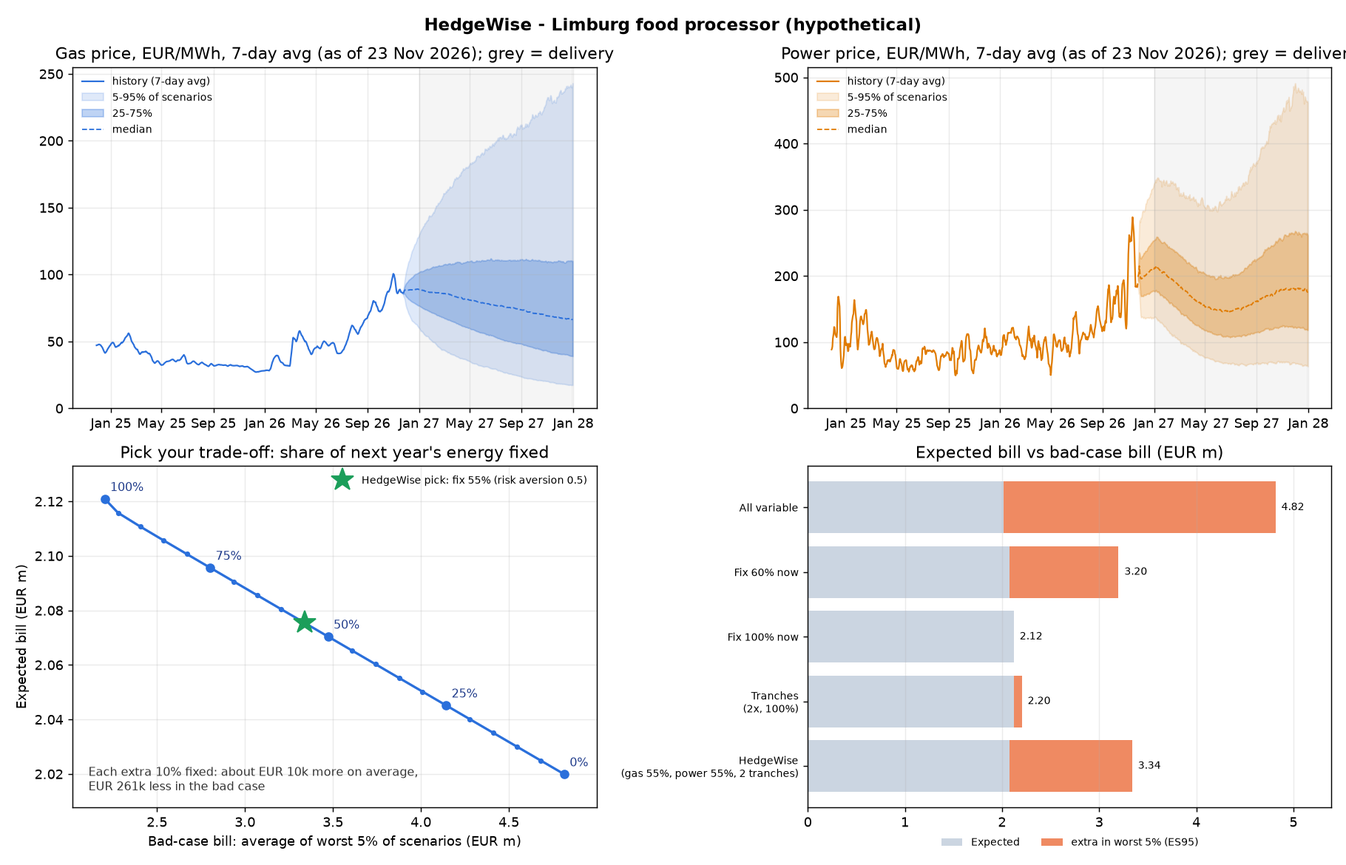
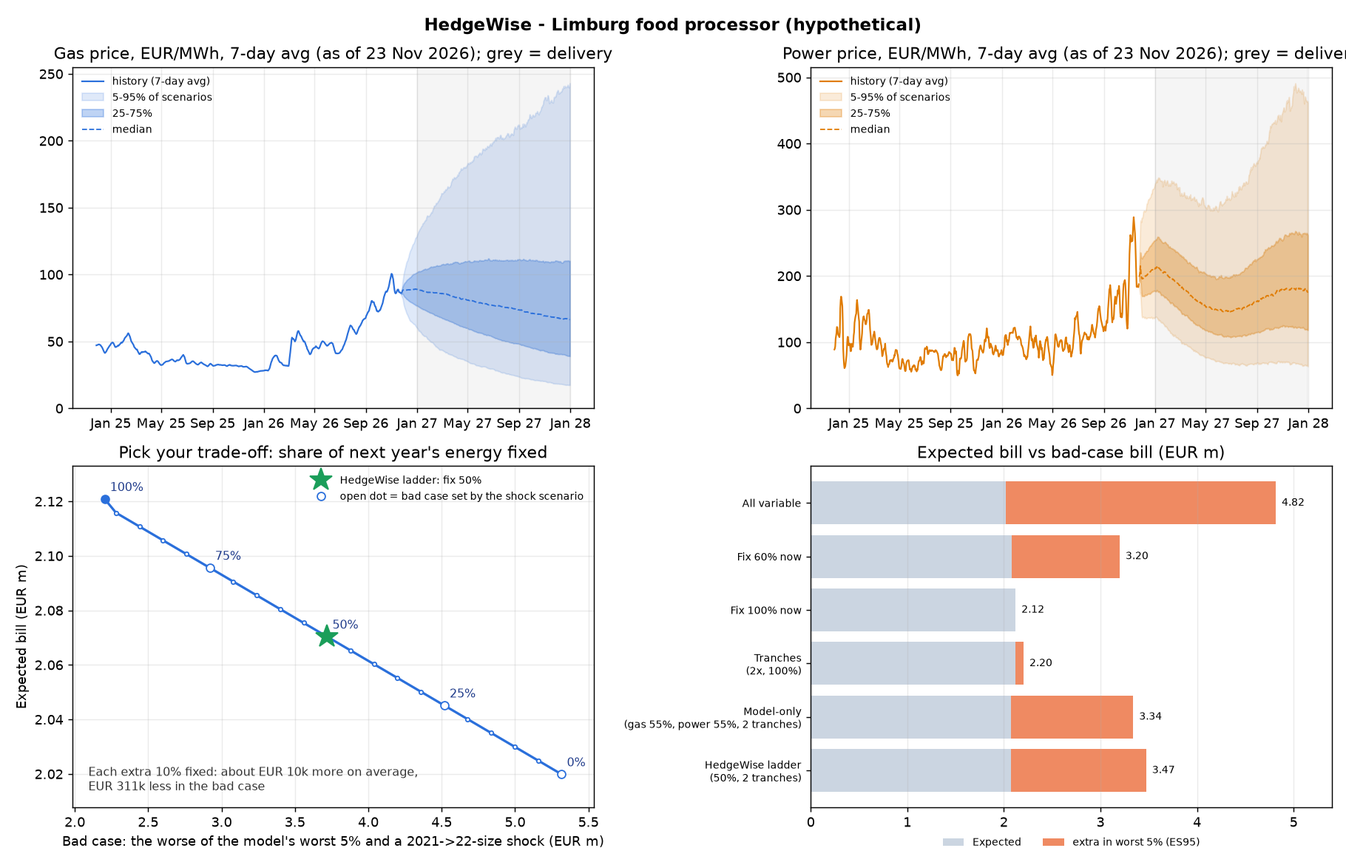
Freeze tasks 1+2 (docs and outputs): RESULTS (ladder = our rule, pre-registered 23 Nov 2026, 2021-2025 in-sample; model-says table with ladder targets and honest bad case; honest-bad-case section: recommendation unchanged because the objective is mean-variance; stress rows for the ladder plan), METH

diff --git a/hedgewise/app_text.py b/hedgewise/app_text.py
@@ -461,7 +461,10 @@ def strategy_table(a: object, lang: str) -> pd.DataFrame:
     t = (a.table / 1e3).round(0).astype(int)
     if lang == "nl":
         t = t.rename(columns=nl_cols)
-        t.index = [nl_rows.get(i, i.replace("power", "stroom").replace("now", "nu")) for i in t.index]
+        t.index = [
+            nl_rows.get(i, i.replace("power", "stroom").replace("now", "nu").replace("Model-only", "Alleen model"))
+            for i in t.index
+        ]
     return t
 
 

diff --git a/RESULTS.md b/RESULTS.md
@@ -1,5 +1,10 @@
 # HedgeWise: results on real data (v0.7, 23 Nov 2026)
 
+**Pitch freeze (23 Nov 2026):** the **HedgeWise ladder is our rule, pre-registered on 23 Nov 2026**
+(`PREREGISTRATION.md`, rule commit `5023af4`); its 2021–2025 numbers are **in-sample**. The **bad case** shown to
+clients is the higher of the model's ES95 and a repeat of the 2021→2022 shock. The plain optimiser is kept as
+"Model-only" (not recommended: procyclical). Every number allowed on a slide is in `PITCH_NUMBERS.md`.
+
 **v0.7** adds evidence and tools; the model maths and the 2021–2025 numbers are unchanged (golden test):
 - **Robustness:** synthetic 8-year futures and stress paths, and the backtest on German and Belgian power, 2020–2025
 - **Procurement audit:** a company's real past contracts vs the strategies ("what would HedgeWise have saved you?")
@@ -30,8 +35,8 @@ Real Dutch day-ahead power and TTF gas prices, 2019 to today. Company: the hypot
 
 > **Mid-sized companies either stay fully variable or fix 100% once a year. Over 2021–2025 both were the most expensive way to buy energy in the years that hurt. Fixing 60% in monthly tranches, or layering over two years, cut the worst year by 7–21% and the biggest year-on-year jump by 21–41% versus staying variable, for 3–5% more over five years. Against the "fix 100% in October" habit it was cheaper *and* safer: −16 to −17% total, worst year cut by 43–51%.**
 
-⚠ "For 3–5% more" is what 2021–2025 cost. In 200 synthetic futures from the model the layered plan cost 29% more
-than staying variable in the median future and paid off only in the bad tail (P95 worst year −20%); see Robustness.
+⚠ "For 3–5% more" is what 2021–2025 cost. In 1,000 synthetic futures from the model the layered plan cost 29% more
+than staying variable in the median future and paid off only in the bad tail (P95 worst year −12%); see Robustness.
 Say "insurance against the bad year", not "almost free".
 
 Use `output/pitch_cycle.png` as the main chart and `output/pitch_2022.png` as the "2022 story" chart. They tell the same story; 2022 alone cherry-picks the year where hedging won.
@@ -71,7 +76,7 @@ The policy (`policy_plan` in `hedgewise_model.py`) takes the optimizer's target 
 * **What would address it** (not done, because the cap mustn't be tuned on these results): carry the previous season's target over as the starting point of the cap, or add mean reversion to the gas model. Decide either one on reasoning first, then test it once.
 * **Pitch implication:** sell the *discipline* (60% in tranches or a 2-year ladder) as the recommendation, and the model as the tool that *measures* the risk (bad-case bill, stress test, frontier). Don't claim the optimizer beats simple rules.
 
-### HedgeWise ladder: ⚠ designed AFTER seeing the 2021–2025 results, so this backtest is NOT independent evidence
+### HedgeWise ladder: our rule, pre-registered on 23 Nov 2026. ⚠ Designed AFTER seeing 2021–2025, so this backtest is in-sample, NOT independent evidence
 
 **Rule:** buy 40% in 6 monthly tranches in H2 of Y-2. In H2 of Y-1, top up in equal monthly tranches to the model's target (γ = 0.5). The target may not exceed the **previous season's** target by more than 10 points. "Previous season's target" is the ladder's target on the last decision date for delivery year Y-1. For 2021 there is no previous season in the data, so the 40% base layer is used as the starting point (cap 50%). The rule combines what the earlier sections showed: layering across two years helped, and between-season jumps hurt. **That's exactly why its good numbers below prove nothing yet**; it needs testing on data it wasn't designed on (other years, other markets, or the coming seasons).
 
@@ -92,15 +97,34 @@ Per year: 729 / 1,584 / 1,612 / 1,894 / 893. The ladder fixed 48%, 50%, 60%, 65%
 * **"Fix 60% at once in July" has the best numbers in the table (total €5.56m), but that's luck.** Fixing 60% once in a different month of the same half-year gives a total of €5.56m–€7.60m and a worst year of €1.85m–€3.60m. Don't pitch it.
 * **The HedgeWise optimizer doesn't beat the simple rules in this backtest.** It hedges *more* when volatility is high, and volatility is high when prices are already high (H2 2022), so it locked in crisis prices for 2023. Model-driven hedging on its own is procyclical. Honest framing: the model's job is to *measure* the risk and size the hedge; the *discipline* (tranches and layering) is what protects you. Fixing the procyclicality (a vol-target that doesn't chase, or mean reversion in gas) is the next modelling step.
 
-## What the model says (anchored, γ = 0.5, 10,000 scenarios)
+## What the model says (anchored, 10,000 scenarios; recommendation = the HedgeWise ladder)
 
-| As of | Delivery | Expected bill, all variable | Bad case (ES95), all variable | HedgeWise: share fixed | Bad case with HedgeWise | Extra expected cost |
+The plan is the pre-registered ladder: the optimiser's share at γ = 0.5 ("model target"), kept between the 40% base
+layer and last season's target + 10 points (a new client has no last season: at most 50%). Bad case = the higher of
+the model's ES95 and the 2021→2022-shock bill (source in brackets).
+
+| As of | Delivery | Expected bill, all variable | Bad case, all variable | Model target → **ladder** | Bad case with the ladder | Extra expected cost |
 |---|---|---|---|---|---|---|
-| 30 Jun 2021 | 2022 | €0.71m | €1.91m | 70% | €1.27m | €25k |
-| 30 Jun 2022 | 2023 | €2.31m | €7.96m | 90% | €4.28m | €104k |
-| 23 Nov 2026 (today) | 2027 | €2.02m | €4.82m | 55% | €3.34m | €56k |
+| 30 Jun 2021 | 2022 | €0.71m | €1.91m (model) | 70% → **50%** | €1.44m | €18k |
+| 30 Jun 2022 | 2023 | €2.31m | €7.96m (model) | 90% → **50%** | €5.74m | €58k |
+| 23 Nov 2026 (today) | 2027 | €2.02m | **€5.32m (stress)** | 55% → **50%** | **€3.72m (stress)** | €50k |
 
-Today's frontier: each extra 10% fixed costs about €10k on average and removes about €260k from the bad case. The exact recommended share moves by ±5 percentage points with the number of scenarios (5,000 in the dashboard, which advises 60% today, vs 10,000 here).
+Today the ladder also starts 2028: buy 20% of 2028's volume this month and 40% by December (its base layer).
+Today's frontier: each extra 10% fixed costs about €10k on average and removes about €311k from the (honest) bad
+case. The model target moves by ±5 points with the number of scenarios (the dashboard uses 5,000); the ladder's cap
+(50%) binds today either way.
+
+### The honest bad case (new at the pitch freeze)
+
+Our model's 12-month ranges were too narrow before the 2021–22 crisis (they held 72% of outcomes instead of 90%; see
+Model validation), so the bad case shown to clients is **never lower than a repeat of the 2021→2022 price shock**:
+for every strategy and every point on the trade-off chart it is the higher of (a) the model's ES95 (average of the
+worst 5% of scenarios) and (b) the bill in the "shock as big as 2021→2022, from today" stress scenario, labelled
+"model" or "stress". Today the shock sets the bad case for every strategy except fixing 100% (now: both equal, €2.12m; in tranches: the
+model's ES95 is higher); on 30 Jun
+2021 and 30 Jun 2022 the model's ES95 was the higher one. **The recommendation is not affected:** the optimiser's
+objective is mean-variance (E + γ/2·Var/E) and doesn't use the bad case, and the ladder's cap doesn't either, so the
+advised share is the same as before; only the bad-case numbers shown next to it change.
 
 ## Stress test: "what if 2022 happens again?" (two scenarios, revised)
 
@@ -113,15 +137,15 @@ The fixed share is priced at today's fixed price. "Implied avg" is the volume-we
 
 | Decision date (plan) | Scenario | Implied avg gas / power (€/MWh) | All variable | HedgeWise plan | Fix 60% now | Fix 100% now |
 |---|---|---|---|---|---|---|
-| 30 Jun 2021 (fix 70%) | 2022 repeats | 124 / 243 | 2.67 | 1.32 | 1.52 | 0.75 |
-| | shock from today | 80 / 183 | 1.86 | 1.08 | 1.19 | 0.75 |
-| 30 Jun 2022 (fix 90%) | 2022 repeats | 124 / 243 | 2.67 | 2.45 | 2.53 | 2.43 |
-| | shock from today | 295 / 527 | 6.10 | 2.80 | 3.90 | 2.43 |
-| **23 Nov 2026, today (fix 55%)** | 2022 repeats | 124 / 243 | **2.67** | **2.37** | 2.34 | 2.12 |
-| | shock from today | 253 / 471 | **5.32** | **3.56** | 3.40 | 2.12 |
+| 30 Jun 2021 (ladder 50%) | 2022 repeats | 124 / 243 | 2.67 | 1.71 | 1.52 | 0.75 |
+| | shock from today | 80 / 183 | 1.86 | 1.30 | 1.19 | 0.75 |
+| 30 Jun 2022 (ladder 50%) | 2022 repeats | 124 / 243 | 2.67 | 2.55 | 2.53 | 2.43 |
+| | shock from today | 295 / 527 | 6.10 | 4.26 | 3.90 | 2.43 |
+| **23 Nov 2026, today (ladder 50%)** | 2022 repeats | 124 / 243 | **2.67** | **2.40** | 2.34 | 2.12 |
+| | shock from today | 253 / 471 | **5.32** | **3.72** | 3.40 | 2.12 |
 
 * Sanity check: as of 30 Jun 2021, "2022 repeats" is what actually happened, and its all-variable bill (€2.67m) equals the realised 2022 bill in the backtest.
-* Today's fixed prices (gas €96, power €199/MWh) are already close to the 2022 averages, so "2022 repeats" adds only about €0.65m to a variable bill. The shock scenario is the one that hurts: €5.32m variable vs €3.56m with the plan.
+* Today's fixed prices (gas €96, power €199/MWh) are already close to the 2022 averages, so "2022 repeats" adds only about €0.65m to a variable bill. The shock scenario is the one that hurts: €5.32m variable vs €3.72m with the ladder plan.
 * By construction, fixing more always looks better in a price-rise scenario. The frontier and the backtest show the other side (2023, when prices fell).
 * It appears in the dashboard, the PDF and the CLI (with the implied prices), and in `output/stress_<date>.png`.
 
@@ -275,38 +299,41 @@ instead of 4,000** and one risk aversion (γ = 0.5). Three families, defined bef
 * **stress:** three named paths: "2022 repeats" (the 2021→2022 shock from today, in 2028–29), "slow 3-year rise"
   (×3 from mid-2027) and "spike then crash" (×4 in 3 months in 2028, then down to 0.5× today's level).
 
-**Sample size: 200 histories per family so far** (plus the 3 stress paths). The run is chunked and resumable, and is
-still going towards 1,000 per family; the tables below will be updated when it finishes. Measures per strategy:
+**Sample size: 1,000 histories per family** (the model family; the bootstrap family has 999: history 542 produced
+non-finite prices and is reported as failed, not dropped silently) plus the 3 stress paths. Measures per strategy:
 median 8-year total, 95th percentile (P95) of the worst single year and of the biggest year-on-year jump, and "wins"
 = the share of histories where the strategy has a lower worst year than all-variable **and** costs less than 8% more
-in total. Files: `output/robustness_table.csv`, `robustness_histories.csv`, `robustness.png`.
+in total. Files: `output/robustness_table.csv`, `robustness_histories.csv`, `robustness.png`, `robustness_summary.txt`.
 
-**Model family (n = 200), €m over 8 years:**
+**Model family (n = 1,000), €m over 8 years:**
 
 | Strategy | Median total | P95 worst year (vs variable) | P95 biggest jump (vs variable) | Wins |
 |---|---|---|---|---|
-| All variable | 5.46 | 15.7 | 8.2 | – |
-| Fix 100% in Oct | 7.36 | 18.5 (+17%) | 8.9 (+8%) | 10% |
-| Fix 60% at once (Jul) | 6.80 | 15.2 (−4%) | 6.6 (−20%) | 18% |
-| Tranches 6× (100%) | 7.13 | 18.9 (+20%) | 9.4 (+14%) | 6% |
-| Tranches 6× (60%) | 6.45 | 15.2 (−4%) | 5.7 (−31%) | 18% |
-| Layered 2 years (40+40%) | 7.27 | **12.6 (−20%)** | 4.8 (−42%) | 18% |
-| HedgeWise policy γ=0.5 | 6.52 | 16.7 (**+6%**) | 6.9 (−17%) | 22% |
-| HedgeWise ladder (in-sample rule) | 6.82 | **12.6 (−20%)** | **4.5 (−46%)** | 23% |
+| All variable | 5.92 | 10.9 | 4.8 | – |
+| Fix 100% in Oct | 7.39 | 11.6 (+6%) | 6.5 (+36%) | 10% |
+| Fix 60% at once (Jul) | 7.10 | 10.7 (−2%) | 4.7 (−2%) | 18% |
+| Tranches 6× (100%) | 7.45 | 11.0 (+0%) | 6.1 (+28%) | 7% |
+| Tranches 6× (60%) | 6.85 | 10.7 (−2%) | 4.4 (−9%) | 17% |
+| Layered 2 years (40+40%) | 7.64 | **9.6 (−12%)** | 3.3 (−30%) | 18% |
+| Model-only (HedgeWise policy γ=0.5) | 6.77 | 10.8 (−1%) | 4.1 (−14%) | 20% |
+| **HedgeWise ladder** (our rule; pre-registered 23 Nov 2026) | 7.18 | **9.6 (−13%)** | **3.0 (−37%)** | **22%** |
 
 (The uncapped optimiser column "HedgeWise (risk aversion 0.5)" is left out: its summary numbers equal the policy's
-to within €10k (identical trades in 46% of histories; where the 20-point cap binds, totals differ by up to €0.65m).)
+to within €13k; identical trades in 46% of histories, totals differ by up to €1.07m where the
+20-point cap binds.) With 200 histories the tail cuts looked larger (−20% for the ladder and the layered rule) and the
+model-only policy looked worse than variable (+6%); with 1,000 those are −13%, −12% and −1%. The 1,000 numbers are
+the ones to use.
 
-**Who is best how often** (share of the 200 model histories in which a strategy has the lowest value):
+**Who is best how often** (share of the 1,000 model histories in which a strategy has the lowest value):
 
 | | Lowest total | Lowest worst year | Lowest biggest jump |
 |---|---|---|---|
-| All variable | **84%** | **40%** | 5% |
-| HedgeWise ladder | 1% | 32% | 40% |
-| Layered 2 years | 4% | 10% | 40% |
-| HedgeWise policy | 0% | 5% | 2% |
+| All variable | **84%** | **44%** | 5% |
+| HedgeWise ladder | 2% | 31% | **39%** |
+| Layered 2 years | 4% | 9% | 37% |
+| Model-only (HedgeWise policy) | 0% | 3% | 5% |
 | Tranches 6× (60%) | 0% | 2% | 4% |
-| Fix 100% in Oct | 7% | 4% | 2% |
+| Fix 100% in Oct | 6% | 2% | 1% |
 
 **Named stress paths, €m (8-year total / worst year):**
 
@@ -316,35 +343,35 @@ to within €10k (identical trades in 46% of histories; where the 20-point cap b
 | Fix 100% in Oct | 18.9 / 8.5 | 53.5 / 9.8 | 20.6 / 9.3 |
 | Tranches 6× (60%) | 15.7 / 5.1 | 53.3 / 8.3 | 18.3 / 5.8 |
 | Layered 2 years | 16.8 / 4.4 | **50.9** / 8.1 | 19.2 / 5.0 |
-| HedgeWise policy γ=0.5 | 16.5 / 5.7 | 53.1 / **7.9** | 17.5 / 5.3 |
+| Model-only (HedgeWise policy) | 16.5 / 5.7 | 53.1 / **7.9** | 17.5 / 5.3 |
 | HedgeWise ladder | 16.2 / **3.6** | 51.2 / 8.4 | 18.4 / **4.5** |
 
 **What this shows, including where our preferred strategies lose:**
 1. **Hedging is insurance, and in the model's world it usually costs more than 5%.** In the median history every hedge
-   costs more than staying variable: +13% (HedgeWise policy) to +29% (layered) over 8 years. All-variable has the
+   costs more than staying variable: +14% (model-only) to +29% (layered); the ladder +22%. All-variable has the
    lowest 8-year total in 84% of model histories. The reason: the model is a martingale with high volatility, so in
    most paths prices drift down after a hedge is locked in, and the few paths where they explode carry the average.
    The real-data claim "3–5% more over five years" belongs to 2021–2025; it is not a general cost of hedging.
-2. **The benefit is in the tail, and only for the layered rules.** The 2-year ladder and the HedgeWise ladder cut the
-   P95 worst year by 20% and the P95 jump by 42–46%. 60% tranches barely move the P95 worst year (−4%) but cut the
-   jump by 31%. Fixing 100% (in October or in tranches) makes both the bad year and the jump *worse* than staying
-   variable: it concentrates the price risk into one decision season.
-3. **The HedgeWise policy (the model-driven optimiser) fails on worst year here too:** P95 worst year +6% versus
-   all-variable, the same procyclicality seen in 2021–2025. It has the cheapest median among the hedges (+13%) and
-   wins in 22% of histories, but not on the measure we sell.
-4. **"Wins" is low for everything (6–23%).** Lower worst year *and* less than 8% extra is rarely both true in the
-   model's world. The HedgeWise ladder (23%) and the policy (22%) are highest, the layered rule 18%.
+2. **The benefit is in the tail, and mainly for the layered rules.** The HedgeWise ladder and the 2-year ladder cut
+   the P95 worst year by 13% and 12% and the P95 jump by 37% and 30%. 60% tranches barely move the P95 worst year
+   (−2%). Fixing 100% (in October or in tranches) makes the jump much *worse* (+28 to +36%) and the bad year no
+   better: it concentrates the price risk into one decision season.
+3. **The model-only policy barely helps on the worst year** (P95 −1% vs variable), the same procyclicality as in
+   2021–2025. It has the cheapest median among the hedges (+14%), but not the protection we sell.
+4. **"Wins" is low for everything (7–22%).** Lower worst year *and* less than 8% extra is rarely both true in the
+   model's world. The HedgeWise ladder is highest (22%), the model-only policy 20%, the layered rule 18%.
 5. **Stress paths:** a disciplined hedge cuts the worst year in "2022 repeats" (ladder 3.6, layered 4.4 vs 5.4) and in
    "spike then crash" (4.5–5.0 vs 7.0), but all-variable is cheapest over 8 years in both: after the shock prices
    come down and the hedges keep paying today's high price. Only in the slow 3-year rise do the layered rules save
    money (−5 to −6%); there, no strategy changes the worst year much (7.9–9.8).
-6. **The HedgeWise ladder is still in-sample** (designed after seeing 2021–2025). It does well here on data it wasn't
-   designed on, which is some evidence, but the synthetic futures come from a model fitted on the same history.
+6. **The HedgeWise ladder is our pre-registered rule (PREREGISTRATION.md, 23 Nov 2026); 2021–2025 is in-sample.**
+   It does best here on data it wasn't designed on, which is some evidence, but the synthetic futures come from a
+   model fitted on the same history. The real test is out of sample: every delivery year from 2027 on.
 7. **The bootstrap family fails a sanity check and is not used for any conclusion.** Chaining random 30-day blocks of
    2019–2026 daily changes over 9 years (a) copies the 2019–2026 upward drift (gas €22 → €91; median simulated 2035
    gas price €589/MWh) and (b) ignores that power mean-reverts after spikes and negative prices (one 30-day block's
    power change has a standard deviation of 0.59 in logs), so the median 2035 power price is about €5,000/MWh and the
-   P95 runs to absurd values. Its "wins" (46–78%) mostly reflect the built-in upward drift. The design was fixed
+   P95 runs to absurd values. Its "wins" (44%–74%) mostly reflect the built-in upward drift. The design was fixed
    before the run and is reported as it is; a better bootstrap (gas blocks + power from the fitted power-on-gas
    regression, drift removed) is a to-do, to be defined before it is run.
 8. **Caveats:** the model family inherits the model's limits (no mean reversion; validation shows 12-month bands too

diff --git a/TEAM_GUIDE.md b/TEAM_GUIDE.md
@@ -82,16 +82,18 @@ Click **Vergelijk met de strategieën** (about a minute the first time). You get
 | Number | Meaning |
 |---|---|
 | **Verwachte rekening / Expected bill** | Average gas + power commodity bill for next calendar year over thousands of simulated price paths, if they buy everything at the variable (day-ahead) price. |
-| **Slecht scenario / Bad case** | The average of the worst 5% of those paths ("expected shortfall"). Not the worst case; a plausible bad year. |
-| **Slecht scenario met HedgeWise** | The same bad case if they follow our plan (fix the advised share in monthly steps). The green number is how much the plan takes off. |
+| **Slecht scenario / Bad case** | The higher of two numbers: the average of the worst 5% of the simulated paths, and the bill if a price shock as big as 2021→2022 started today. The small label under it says which one ("from the model" / "from the 2021->22 shock"). We do this because our model's ranges were too narrow before the 2021–22 crisis. Not the worst case; a plausible bad year. |
+| **Slecht scenario met HedgeWise** | The same bad case if they follow our plan, the **HedgeWise ladder** (fix the advised share in monthly steps). The green number is how much the plan takes off. |
 | **Advies: deel vastzetten / Share to fix** | Share of next year's volume to fix now, spread over the remaining monthly buying dates before January. |
 | **The trade-off chart** | Every share from 0% to 100%: right = bigger bad case, up = dearer on average. In the model, fixing more costs a little more on average (the ~5% premium inside fixed prices) and removes some of the bad case. The star is our advice. |
 | **Wat als 2022 zich herhaalt?** | Two historical stress tests, not forecasts: the 2022 prices exactly, and a shock as big as 2021→2022 starting from today's prices. |
 | **Past contracts table** | What they actually paid per year (commodity only) next to what 5 simple strategies would have cost with the same volumes and the real prices. |
 
-All numbers are **commodity cost only**: no network costs, energy tax, VAT or supplier margin. Today the dashboard
-advises 60% (5,000 scenarios); the PDF and the command line use 10,000 scenarios and say 55%. The advice moves by
-about 5 points with the number of scenarios; that's noise, not a different view.
+All numbers are **commodity cost only**: no network costs, energy tax, VAT or supplier margin. **Our advice is the
+HedgeWise ladder**, our rule since 23 Nov 2026 (`PREREGISTRATION.md`): the model proposes a share (today 55–60%) and
+the ladder keeps it between 40% and last season's share + 10 points; for a new client that means at most 50%, which
+is today's advice. It also says to start next year's 40% base layer in the second half of the year. The "Model-only"
+option in the full dashboard is the model's own share: not recommended (it buys most when prices are already high).
 
 ## 5. What we may and may not claim
 
@@ -99,9 +101,11 @@ about 5 points with the number of scenarios; that's noise, not a different view.
 * "Over 2021–2025, fixing 60% in monthly steps or layering over two years cut the worst year by 7–21% versus staying
   variable, for 3–5% more in total. Fixing 100% once a year in October was the most expensive habit: 25% more than
   staying variable, and the worst year was 60% higher." (RESULTS.md, real prices.)
-* "In thousands of simulated futures, a two-year layered plan cuts the bad tail (the worst year in 1 of 20 futures)
-  by about 20%, but in a typical future it costs more than staying variable. It's insurance, not a way to save
-  money."
+* "In 1,000 simulated futures, our ladder cuts the bad tail (the worst year in 1 of 20 futures) by about 13% and the
+  biggest year-on-year jump by about a third, but in a typical future it costs more than staying variable. It's
+  insurance, not a way to save money."
+* "The ladder is our rule, pre-registered on 23 November 2026. 2021–2025 is in-sample: we will score every year from
+  2027 on out of sample, with measures we fixed in advance."
 * "The same pattern holds with German and Belgian power prices." (Coupled markets, same gas: not independent proof.)
 * "We tested the model on 76 monthly forecasts made with only the data available at the time. Outside the 2021–22
   build-up its 90% ranges held about 90% of outcomes; before the crisis no statistical model saw it coming. That's
@@ -111,7 +115,10 @@ about 5 points with the number of scenarios; that's noise, not a different view.
 * "HedgeWise saves you money" or "beats the market". It doesn't, on average; it reduces the bad years.
 * "Our optimiser beats simple rules." In the backtest and in simulations it doesn't (it hedges most when prices are
   already high).
-* Anything with the "HedgeWise ladder" as proof: it was designed after seeing 2021–2025.
+* The ladder's 2021–2025 numbers as proof: it was designed after seeing 2021–2025 (in-sample). Say "our rule from now
+  on", not "the rule that won".
+* "The bad case is the worst that can happen." It's a plausible bad year (the worse of the model and a 2021→22 repeat),
+  not a ceiling.
 * "Proven", "always", "guaranteed". Five years is a tiny sample.
 * Exact euros for a specific company without their own data and their real contract prices.
 * Green-investment paybacks as firm numbers: the capex values are placeholders, and today's high prices flatter
@@ -139,11 +146,14 @@ about 5 points with the number of scenarios; that's noise, not a different view.
 4. **"Then why not stay variable?"** On average it is cheapest, in the backtest and in simulations. But 2022 doubled
    the bill in one year; most companies can't absorb that. Hedging is insurance.
 5. **"How much does your advice cost the client?"** About 5% on the hedged part (the premium in fixed prices). Today:
-   roughly €10k a year more on average per extra 10% fixed, for ~€260k less in the bad case (default company).
-6. **"Does your optimiser beat simple rules?"** No, and we say so. It reacts to volatility after the fact. We sell the
-   discipline (layered monthly buying) and the measurement, not a black box.
-7. **"Five years of backtest is nothing."** Agreed. We added three countries, 6 years, and hundreds of simulated 8-year
-   futures. The direction holds: layered buying cuts the bad tail and costs money in normal times.
+   roughly €10k a year more on average per extra 10% fixed, for ~€310k less in the bad case (default company).
+6. **"Does your optimiser beat simple rules?"** No, and we say so: it reacts to volatility after the fact. That's why our
+   rule is the HedgeWise ladder (pre-registered on 23 Nov 2026): a fixed 40% base layer two years ahead plus a model
+   top-up whose rise is capped at 10 points a season. Its 2021–2025 numbers are in-sample; we score it out of sample
+   from 2027.
+7. **"Five years of backtest is nothing."** Agreed. We added three countries, 6 years, and 1,000 simulated 8-year
+   futures. The direction holds: layered buying cuts the bad tail (−12 to −13% in the worst year of 1 in 20 futures)
+   and costs money in normal times.
 8. **"Your fixed price isn't a real forward price."** Correct: it's recent spot + 5%. The code reads real EEX/ICE
    forwards as soon as we get them (university terminal); then the numbers will move.
 9. **"Isn't this what energy brokers do?"** Brokers sell contracts and get paid per contract. We're independent,

diff --git a/METHODOLOGY.md b/METHODOLOGY.md
@@ -29,9 +29,14 @@ the outcomes are.
 For each share fixed h (0–100%, same for gas and power, bought in monthly tranches until delivery):
 `minimise E[bill] + (γ/2)·Var[bill] / E[all-variable bill]`, γ = risk aversion (default 0.5). Variance is quadratic in
 h, so the answer is interior (≈ 1 − premium / (γ·CV²)). A budget mode picks the smallest h that keeps the 95% VaR within
-budget. The **bad case** shown everywhere is the expected shortfall: the average of the worst 5% of scenarios. The
-trade-off chart shows expected bill vs bad case for every h. The **HedgeWise policy** caps the rise of the target at 20
-points per month (5 steps × 20 = 100%, set from the calendar, not the backtest).
+budget. **The recommendation is the HedgeWise ladder** (pre-registered 23 Nov 2026, `PREREGISTRATION.md`): the
+optimiser's share at γ = 0.5 is the *model target*, kept between the 40% base layer (bought in H2 of Y-2) and last
+season's target + 10 points, and bought in monthly tranches in H2 of Y-1. Its 2021–2025 results are in-sample; from
+2027 every new year and market is scored out of sample. The plain optimiser stays available as "model-only" (not
+recommended: procyclical). The **bad case** shown to clients is the higher of the model's expected shortfall (average
+of the worst 5% of scenarios) and the bill in a repeat of the 2021→2022 shock (labelled model / stress), because the
+model's 12-month ranges held only 72% of outcomes before the 2021–22 crisis. The objective is mean-variance, so this
+doesn't change the advised share. The trade-off chart shows expected bill vs this bad case for every h.
 
 ## 5. Validation (out of sample, `validation.py`)
 At 76 month ends from June 2020 the model is fitted on data up to that date only (a test proves no look-ahead) and
@@ -49,8 +54,9 @@ afterwards (90–92%). Anchoring to the 30-day proxy hurts at 1 month (the proxy
   and lost to the simple rules.
 * **Other markets, 2020–2025:** the same ranking with NL, DE-LU and BE power (coupled markets, same gas: one history).
 * **Synthetic futures** (`robustness.py`): 8 delivery years on futures simulated from the model, plus 3 named stress
-  paths. Layered plans cut the 95th-percentile worst year by ~20% but cost 20–30% more than staying variable in the
-  median future; fixing 100% made the bad tail worse. The pre-registered block bootstrap failed a price sanity check
+  paths, 1,000 futures. The HedgeWise ladder and the 2-year layered plan cut the 95th-percentile worst year by 12–13%
+  and the biggest jump by 30–37%, but cost 22–29% more than staying variable in the median future; the model-only
+  optimiser barely cut the worst year (−1%); fixing 100% made the jumps worse. The pre-registered block bootstrap failed a price sanity check
   (it copies the 2019–26 upward drift and ignores mean reversion in power) and is not used for conclusions.
 * **Procurement audit** (`audit.py`): a company's real past contracts vs the same strategies on real prices; checked
   against hand calculations in the tests.

diff --git a/README.md b/README.md
@@ -153,7 +153,8 @@ python backtest.py --company data/pilot_x.csv
 10. **HedgeWise policy (v0.4, `policy_plan`):** the optimizer's share becomes a *target*. Its rise is capped at 20 percentage points between monthly decision dates, and the rest is bought in equal monthly tranches (never front-loaded, never sold back). Why 20: six monthly dates give five steps, and 5 × 20 = 100%. It isn't tuned on the backtest.
 11. **Stress test (`stress_test`):** two historical scenarios instead of one: (a) the 2022 monthly prices repeat exactly; (b) a shock as big as 2021→2022 from today (today's fixed price × 2022 avg / 2021 avg, with the 2022 monthly pattern; gas ×2.81, power ×2.35). The implied average prices are printed everywhere.
 12. **Real forwards (v0.4, `forwards.py`):** if `data/forwards.csv` exists (columns date, product such as `TTF Cal-27` / `NL Base Cal-27`, and price), the latest quote on or before the decision date replaces the proxy as the fixed price and as the anchor (expected spot = forward / 1.05). Every output says which source was used. `data/forwards.csv` is git-ignored because licensed data must not be pushed.
-13. **HedgeWise ladder (backtest only):** 40% in H2 of Y-2, then a top-up to the model's target in H2 of Y-1, capped at the previous season's target + 10 points. ⚠ Designed after seeing the 2021–2025 results, so its backtest is not independent evidence.
+13. **HedgeWise ladder = the recommendation (pre-registered 23 Nov 2026, `PREREGISTRATION.md`):** 40% in H2 of Y-2, then a top-up to the model's target (γ = 0.5) in H2 of Y-1, capped at the previous season's target + 10 points (`strategies.apply_ladder` / `recommend`; app, PDF, CLI and monitor). `--rule model-only` gives the plain optimiser (not recommended: procyclical). ⚠ Designed after seeing the 2021–2025 results, so that period is in-sample.
+14. **Honest bad case:** everywhere a client sees a bad case, it is the higher of the model's ES95 and the bill in a repeat of the 2021→2022 shock (labelled model / stress), because the model's 12-month ranges held only 72% of outcomes before the 2021–22 crisis. The recommendation doesn't use it (mean-variance objective).
 
 **Consumption input (v0.4, `company_input.py`):** units m³ / kWh / MWh / GJ for gas (1 GJ = 0.2778 MWh) and kWh / MWh for power. It handles Dutch numbers (`1.234,5`) and month names (`januari 2025`, `mrt-25`), and title rows above the table. With several years it averages per calendar month. If 1–3 months are missing it fills them from the sector profile with a warning; with more missing it raises an error. The sector profiles (food processing, metal, greenhouse horticulture, offices) are **assumptions** in `config.yaml` (`sector_profiles`).
 
